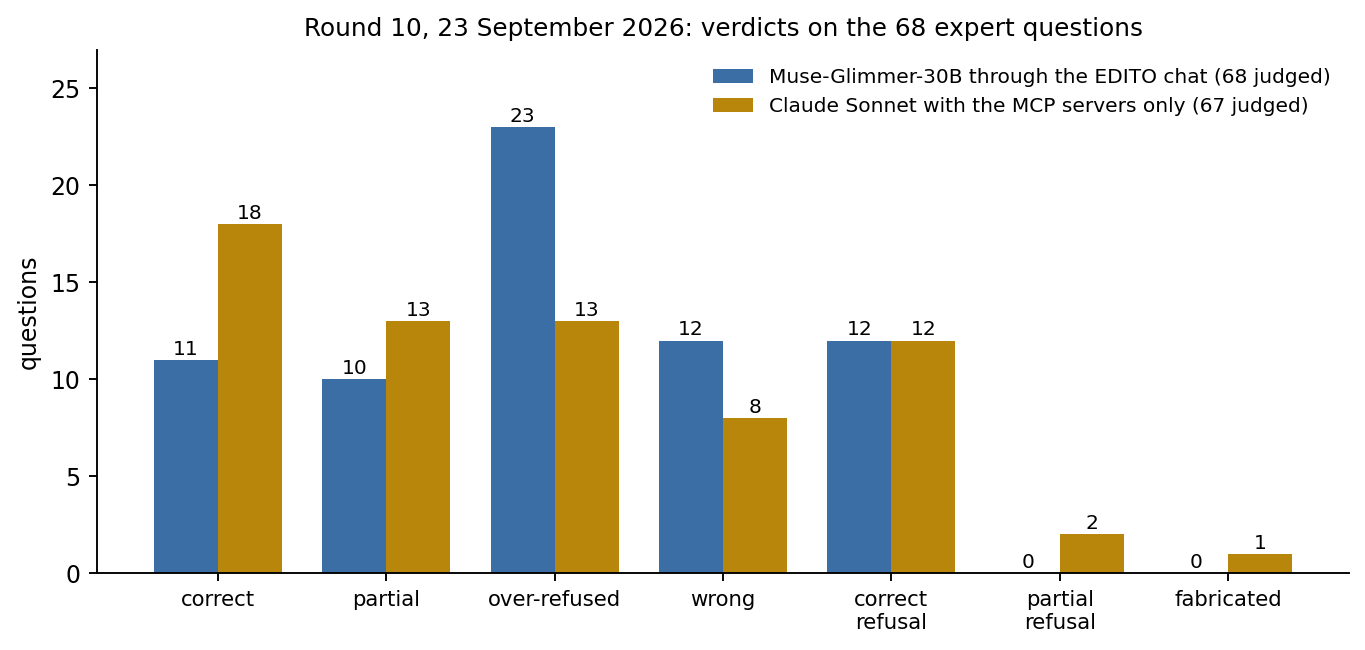
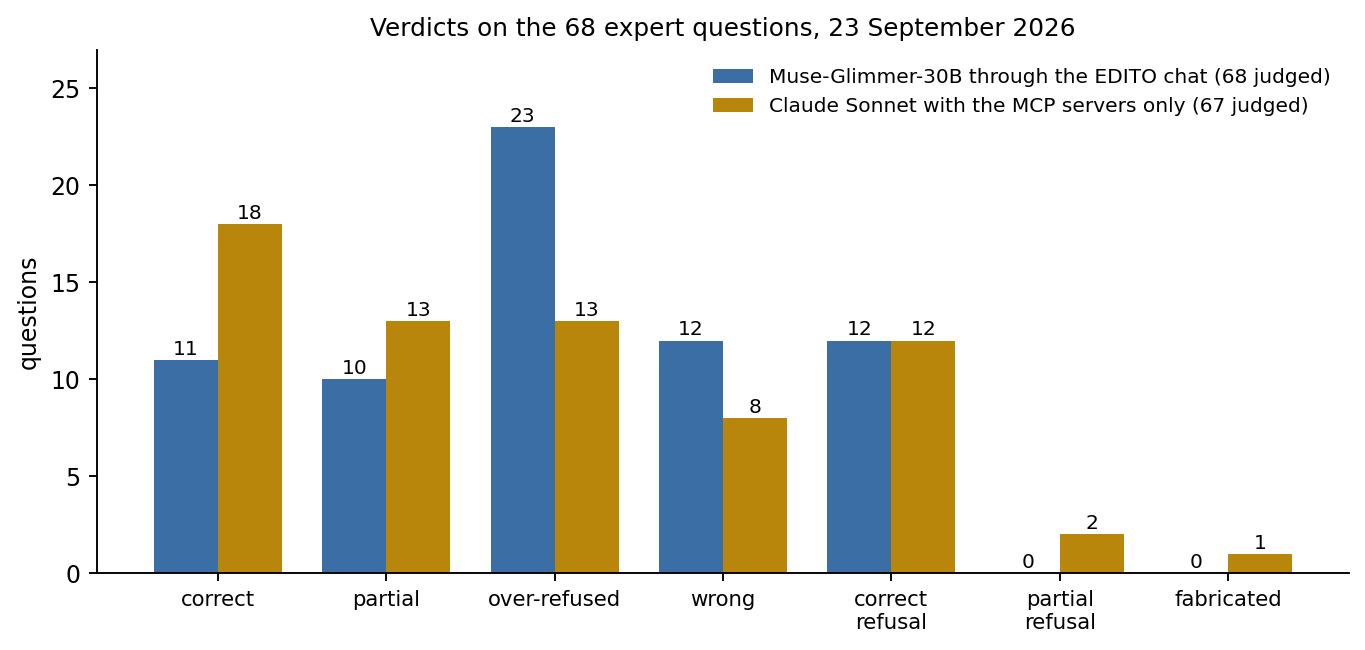
D3.7: chart title and caption

Changed region(s): [[0.2154, 0.0308, 0.8308, 0.0615]]

diff --git a/deliverables/D3.7 - NLP assessment model/D3.7 - NLP assessment model.md b/deliverables/D3.7 - NLP assessment model/D3.7 - NLP assessment model.md
@@ -100,7 +100,7 @@ Quality is assessed in two ways: a behavioural benchmark and an expert evaluatio
 
 <img src="d37_fig3_round10.png" alt="Round 10 verdicts, Muse through the chat versus Sonnet with the servers only" width="800"/>
 
-*Figure 2. Round 10 verdicts on the 68 questions. Blue is the deployed setup, Muse-Glimmer-30B through the EDITO chat. Gold is a stronger model, Claude Sonnet, driving the same servers without the chat interface. The full count per class is in section 6.3.*
+*Figure 2. Verdicts on the 68 expert questions, 23 September 2026. Blue is the deployed setup, Muse-Glimmer-30B through the EDITO chat. Gold is a stronger model, Claude Sonnet, driving the same servers without the chat interface. The full count per class is in section 6.3.*
 
 This data server is wired together with the other NLP deliverable, SURIMI-model-mcp, which is the NLP policy model (D3.9) serving the simulation output and the gridded forcing data, and which is meant for the model GUI side. The ready to use wiring toolbox attaches both servers at the same time, they share one receipt secret so that one verification flow covers both, and the language model picks the server based on the question. Integration into the model GUI itself, which is due in April 2027, is outside this deliverable, the wiring is what an EDITO user has today.
 
